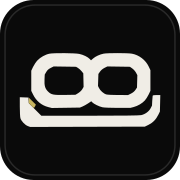
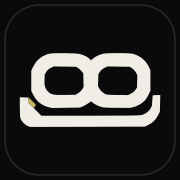
fix: harden ThLoop production asset fidelity

diff --git a/skills/apply-thloop-brand/assets/templates/react/ThLoopLogo.tsx b/skills/apply-thloop-brand/assets/templates/react/ThLoopLogo.tsx
@@ -1,6 +1,7 @@
 import type { CSSProperties } from "react";
 
 type ThLoopLogoProps = {
+  /** Use Twin Chamber when the layout cannot provide at least 160px to the wordmark. */
   compact?: boolean;
   className?: string;
   priority?: boolean;
@@ -36,7 +37,7 @@ export function ThLoopLogo({
       fetchPriority={priority ? "high" : "auto"}
       height={compact ? 132 : 186}
       src={src}
-      style={{ display: "block", height: "auto", maxWidth: "100%", ...style }}
+      style={{ display: "block", height: "auto", maxWidth: compact ? "100%" : "min(100%, 854px)", minWidth: compact ? undefined : 160, ...style }}
       width={compact ? 251 : 854}
     />
   );

diff --git a/skills/apply-thloop-brand/scripts/export_pngs.py b/skills/apply-thloop-brand/scripts/export_pngs.py
@@ -14,8 +14,12 @@ EXPORTS = {
     "logos/thloop-continuous-core-dark.svg": [(1080, "png/thloop-wordmark-dark-1080.png")],
     "marks/twin-chamber-light.svg": [(512, "png/twin-chamber-light-512.png")],
     "marks/twin-chamber-dark.svg": [(512, "png/twin-chamber-dark-512.png")],
-    "icons/favicon.svg": [(32, "png/favicon-32.png"), (180, "png/apple-touch-icon-180.png")],
-    "icons/app-icon.svg": [(512, "png/app-icon-512.png"), (1024, "png/app-icon-1024.png")],
+    "icons/favicon.svg": [(32, "png/favicon-32.png")],
+    "icons/app-icon.svg": [
+        (180, "png/apple-touch-icon-180.png"),
+        (512, "png/app-icon-512.png"),
+        (1024, "png/app-icon-1024.png"),
+    ],
 }
 
 
@@ -33,7 +37,15 @@ def export_with_inkscape(inkscape: str, source: pathlib.Path, output: pathlib.Pa
         raise SystemExit(f"Failed to export {source.name}: {detail}")
 
 
-def build_icon_svg(mark_svg: pathlib.Path, output_svg: pathlib.Path, size: int, radius: int, title: str) -> None:
+def build_icon_svg(
+    mark_svg: pathlib.Path,
+    output_svg: pathlib.Path,
+    size: int,
+    radius: int,
+    title: str,
+    *,
+    opaque_square: bool = False,
+) -> None:
     text = mark_svg.read_text(encoding="utf-8")
     view_box = text.split('viewBox="', 1)[1].split('"', 1)[0].split()
     mark_w, mark_h = float(view_box[2]), float(view_box[3])
@@ -46,7 +58,7 @@ def build_icon_svg(mark_svg: pathlib.Path, output_svg: pathlib.Path, size: int, 
     output_svg.write_text(
         f'''<svg xmlns="http://www.w3.org/2000/svg" viewBox="0 0 {size} {size}" role="img" aria-labelledby="title">\n'''
         f'''  <title id="title">{title}</title>\n'''
-        f'''  <rect width="{size}" height="{size}" rx="{radius}" fill="#0A0A0A"/>\n'''
+        f'''  <rect width="{size}" height="{size}"{'' if opaque_square else f' rx="{radius}"'} fill="#0A0A0A"/>\n'''
         f'''  <rect x="{size * 0.028:.2f}" y="{size * 0.028:.2f}" width="{size * 0.944:.2f}" height="{size * 0.944:.2f}" rx="{radius * 0.89:.2f}" fill="none" stroke="#2A2A2A" stroke-width="{max(2, size * 0.008):.2f}"/>\n'''
         f'''  <g transform="translate({x:.3f} {y:.3f}) scale({scale:.6f})">{group}</g>\n'''
         f'''</svg>\n''',
@@ -78,6 +90,7 @@ def main() -> int:
             1024,
             220,
             "ThLoop app icon",
+            opaque_square=True,
         )
 
     for source_name, variants in EXPORTS.items():

diff --git a/skills/apply-thloop-brand/scripts/build_brand_boards.py b/skills/apply-thloop-brand/scripts/build_brand_boards.py
@@ -5,6 +5,7 @@ from __future__ import annotations
 
 import argparse
 import pathlib
+import shutil
 
 from PIL import Image, ImageDraw, ImageFont
 
@@ -171,8 +172,18 @@ def main() -> int:
     args.applications.parent.mkdir(parents=True, exist_ok=True)
     build_system(args.system)
     build_applications(args.applications)
+    aliases = {
+        ASSETS / "reference/mockups/equipment-kit.png": args.system,
+        ASSETS / "reference/mockups/apparel.png": args.applications,
+        ASSETS / "reference/mockups/digital-system.png": args.applications,
+        ASSETS / "reference/mockups/hackathon-space.png": args.applications,
+    }
+    for alias, source in aliases.items():
+        alias.parent.mkdir(parents=True, exist_ok=True)
+        shutil.copyfile(source, alias)
     print(f"built {args.system.relative_to(ROOT)}")
     print(f"built {args.applications.relative_to(ROOT)}")
+    print("refreshed 4 compatibility aliases")
     return 0
 
 

diff --git a/skills/apply-thloop-brand/scripts/validate_assets.py b/skills/apply-thloop-brand/scripts/validate_assets.py
@@ -49,8 +49,6 @@ def main() -> int:
         if not path.is_file() or path.name == "asset-manifest.json":
             continue
         relative = path.relative_to(ASSETS).as_posix()
-        if relative == "icon.svg":
-            continue
         raw = path.read_bytes()
         entry: dict[str, object] = {"sha256": hashlib.sha256(raw).hexdigest(), "bytes": len(raw)}
         if path.suffix.lower() == ".svg":

diff --git a/skills/apply-thloop-brand/references/asset-catalog.md b/skills/apply-thloop-brand/references/asset-catalog.md
@@ -15,7 +15,7 @@
 | `assets/visual/chicane-divider.svg` | Section divider |
 | `assets/visual/chicane-pattern.svg` | Repeating pattern source |
 | `assets/icons/favicon.svg` | Browser favicon |
-| `assets/icons/app-icon.svg` | Base square app icon |
+| `assets/icons/app-icon.svg` | Opaque square app/touch icon source; rounded keyline is internal artwork, not alpha |
 | `assets/png/*.png` | Raster fallbacks and common export sizes |
 | `assets/reference/thloop-brand-system.png` | Brand-system presentation generated from canonical assets |
 | `assets/reference/thloop-applications.png` | Deterministic applications using embedded canonical assets |
@@ -31,7 +31,7 @@
 | `assets/tokens/thloop.css` | CSS custom properties and base theme |
 | `assets/tokens/thloop.tokens.json` | Platform-neutral design tokens |
 | `assets/tokens/tailwind-preset.ts` | Tailwind theme extension |
-| `assets/templates/react/ThLoopLogo.tsx` | Responsive full/compact React component |
+| `assets/templates/react/ThLoopLogo.tsx` | Full/compact React component; parent layout chooses `compact` below 160px |
 | `assets/templates/react/ThLoopShell.css` | Branded shell primitives |
 | `scripts/build_brand_boards.py` | Rebuild deterministic reference/application boards from canonical assets |
 
@@ -41,3 +41,5 @@
 - Prefer SVG unless raster is required.
 - Do not edit canonical SVG paths inside a product project. Create a documented new derivative only when production constraints demand it.
 - Use only files in `assets/logos/` and `assets/marks/` as logo masters. Any logo visible inside a reference image or mockup is non-authoritative.
+- Monochrome masters preserve the gold-notch geometry in `currentColor`; they change color count, never silhouette.
+- Run `scripts/build_brand_boards.py` to refresh both canonical boards and all four compatibility aliases together.

diff --git a/skills/apply-thloop-brand/references/digital-ui.md b/skills/apply-thloop-brand/references/digital-ui.md
@@ -88,7 +88,7 @@ Use neutral chart series by default. Use gold for one selected series or referen
 - Design at 375px first.
 - Verify at 768px and 1440px.
 - Preserve the full wordmark above its minimum legible width; swap to Twin Chamber below it.
-- Never squeeze the wordmark. Replace it responsively.
+- Never squeeze the wordmark below 160px. The parent layout must set `compact` on `ThLoopLogo` and replace it with Twin Chamber when less width is available.
 - Keep all touch controls at least 44×44px.
 - Ensure Chicane crops do not create accidental horizontal overflow.
 
@@ -97,4 +97,3 @@ Use neutral chart series by default. Use gold for one selected series or referen
 - Use Twin Chamber for favicon and app icon.
 - Use the full wordmark for Open Graph images and branded boot screens.
 - Add descriptive alt text for informative brand imagery; mark purely decorative Chicane elements with empty alt text or `aria-hidden="true"`.
-
